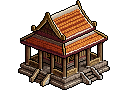
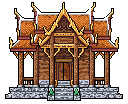
Front-facing temple, sala and spirit house; grounded buildings with contact shadows
- Regenerated wat, sala and san phra phum as symmetrical front views to match the side-view scene (old isometric versions kept as *_old)
- Buildings sink slightly into the ground and get contact shadows so they no longer look like they float
- build_sprites.py: optional deskew for angled building art

Claude-Session: https://claude.ai/code/session_019fMb1LJfrrzNB55xtsXcpM

diff --git a/client/js/scenes/GameScene.js b/client/js/scenes/GameScene.js
@@ -128,22 +128,29 @@ export class GameScene extends Phaser.Scene {
 
     // ---------------- หมู่บ้านบางผี (0 – townEndX) ----------------
     const gy = W.groundY;
+    // สิ่งปลูกสร้าง: ฝังฐานลงดินเล็กน้อย (พื้นหญ้าบังขอบล่าง) + เงาสัมผัสพื้น → ไม่ดูลอย
     const img = (key, x, depth = 1, opts = {}) => {
       if (!this.textures.exists(key)) return null;
-      const o = this.add.image(x, gy + (opts.dy || 0), key).setOrigin(0.5, 1).setDepth(depth);
+      const sink = opts.sink ?? 5;
+      const o = this.add.image(x, gy + sink + (opts.dy || 0), key).setOrigin(0.5, 1).setDepth(depth);
       if (opts.flip) o.setFlipX(true);
       if (opts.scale) o.setScale(opts.scale);
       if (opts.tint) o.setTint(opts.tint);
+      if (opts.shadow !== false) {
+        const w = o.displayWidth * (opts.shadowW ?? 0.9);
+        this.add.ellipse(x, gy + 1, w, 7, 0x000000, 0.32).setDepth(5.5);
+        this.add.ellipse(x, gy + 1, w * 0.7, 4, 0x000000, 0.25).setDepth(5.5);
+      }
       return o;
     };
     const label = (x, y, text, color = '#f7dc6f', size = '6px') => makeText(this, x, y, text, { fontSize: size, color }).setOrigin(0.5).setDepth(2);
     // วัด (ด้านหลังจุดเกิด)
     const wat = img('temple', 110, 0);
     if (wat) label(110, gy - wat.height - 4, 'วัดบางผี');
-    this.shrineSprite = img('spirit_house', 240, 2);
+    this.shrineSprite = img('spirit_house', 240, 2, { sink: 3, shadowW: 0.7 });
     this.shrineX = 240; this.shrineY = gy - (this.shrineSprite?.height || 48) + 6;
     label(240, gy - (this.textures.get('spirit_house').getSourceImage().height || 48) - 4, 'ศาลพระภูมิ');
-    img('palm', 300, 0); img('palm', 640, 0, { flip: true }); img('palm', 965, 0);
+    img('palm', 300, 0, { shadowW: 0.4 }); img('palm', 640, 0, { flip: true, shadowW: 0.4 }); img('palm', 965, 0, { shadowW: 0.4 });
     const h1 = img('house', 420, 1);
     if (h1) label(420, gy - h1.height - 4, 'เรือนไทย', '#e5c07b');
     const sala = img('sala', 560, 1);

diff --git a/tools/build_sprites.py b/tools/build_sprites.py
@@ -28,6 +28,9 @@ NPC = {'npc_maekha': 'npc_maekha'}
 # ฉาก/สิ่งปลูกสร้างในเมือง (ภาพนิ่ง): key ในเกม → ไฟล์ใน assets_src/pixellab/env/
 ENV = {'house': 'house', 'temple': 'temple', 'stall': 'stall', 'spirit_house': 'spirit_house',
        'sala': 'sala', 'palm': 'palm', 'bg_town': 'bg_town'}
+# ภาพที่ PixelLab วาดเป็นมุมเฉียง (isometric) → ดัดให้ฐานตรงแนวนอน เข้ากับเกม side-view
+ENV_DESKEW = set()   # ใส่ชื่อภาพที่ต้องดัดฐาน เช่น {'temple'}
+
 # บอสเรด
 BOSSES = {'phaya_yak': 'walk'}
 PAD_X, PAD_TOP = 5, 3
@@ -41,6 +44,29 @@ def load_clean(path):
     im.putalpha(Image.eval(im.split()[3], lambda a: a if a > 60 else 0))
     box = alpha.getbbox()
     return im.crop(box)
+
+
+def deskew_base(img):
+    """หาเส้นขอบล่างของภาพ (ฐานอาคาร) ที่เอียง แล้วเลื่อนแต่ละคอลัมน์ลงให้ฐานเป็นแนวนอน"""
+    W, H = img.size
+    px = img.load()
+    xs, ys = [], []
+    for x in range(W):
+        bottom = max((y for y in range(H) if px[x, y][3] > 60), default=None)
+        if bottom is not None:
+            xs.append(x); ys.append(bottom)
+    n = len(xs)
+    if n < 2:
+        return img
+    mx, my = sum(xs) / n, sum(ys) / n
+    k = sum((x - mx) * (y - my) for x, y in zip(xs, ys)) / max(1e-6, sum((x - mx) ** 2 for x in xs))
+    b = my - k * mx
+    base = max(b, k * (W - 1) + b)
+    out = Image.new('RGBA', (W, H + int(abs(k) * W) + 2), (0, 0, 0, 0))
+    for x in range(W):
+        shift = int(round(base - (k * x + b)))
+        out.paste(img.crop((x, 0, x + 1, H)), (x, shift))
+    return out.crop(out.getbbox())
 
 
 def tint(img, rgb, amount):
@@ -140,7 +166,10 @@ def main():
         for key, name in ENV.items():
             src = os.path.join(edir, f'{name}.png')
             if os.path.exists(src):
-                load_clean(src).save(os.path.join(OUT, 'env', f'{key}.png'))
+                im = load_clean(src)
+                if key in ENV_DESKEW:
+                    im = deskew_base(im)
+                im.save(os.path.join(OUT, 'env', f'{key}.png'))
                 manifest['env'][key] = f'assets/env/{key}.png'
 
     # บอสเรด (สร้างท่าทางแบบเดียวกับผี)
